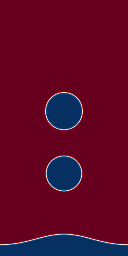
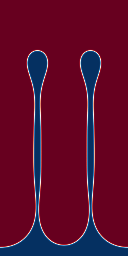
fem

Changed region(s): [[0.0, 0.1875, 1.0, 0.9688]]

diff --git a/fem/npy_to_png.py b/fem/npy_to_png.py
@@ -2,7 +2,7 @@ import numpy as np
 import matplotlib.pyplot as plt
 
 # Carica il file allungato
-surf = np.load('/scratch/fiorello/data_test/pores_deep_npy/02/surf_40.0.npy')
+surf = np.load('/scratch/fiorello/data_test/pores_deep_npy/03/surf_40.0.npy')
 print("Forma:", surf.shape)
 
 # Normalizza tra 0 e 1 per il salvataggio come immagine
